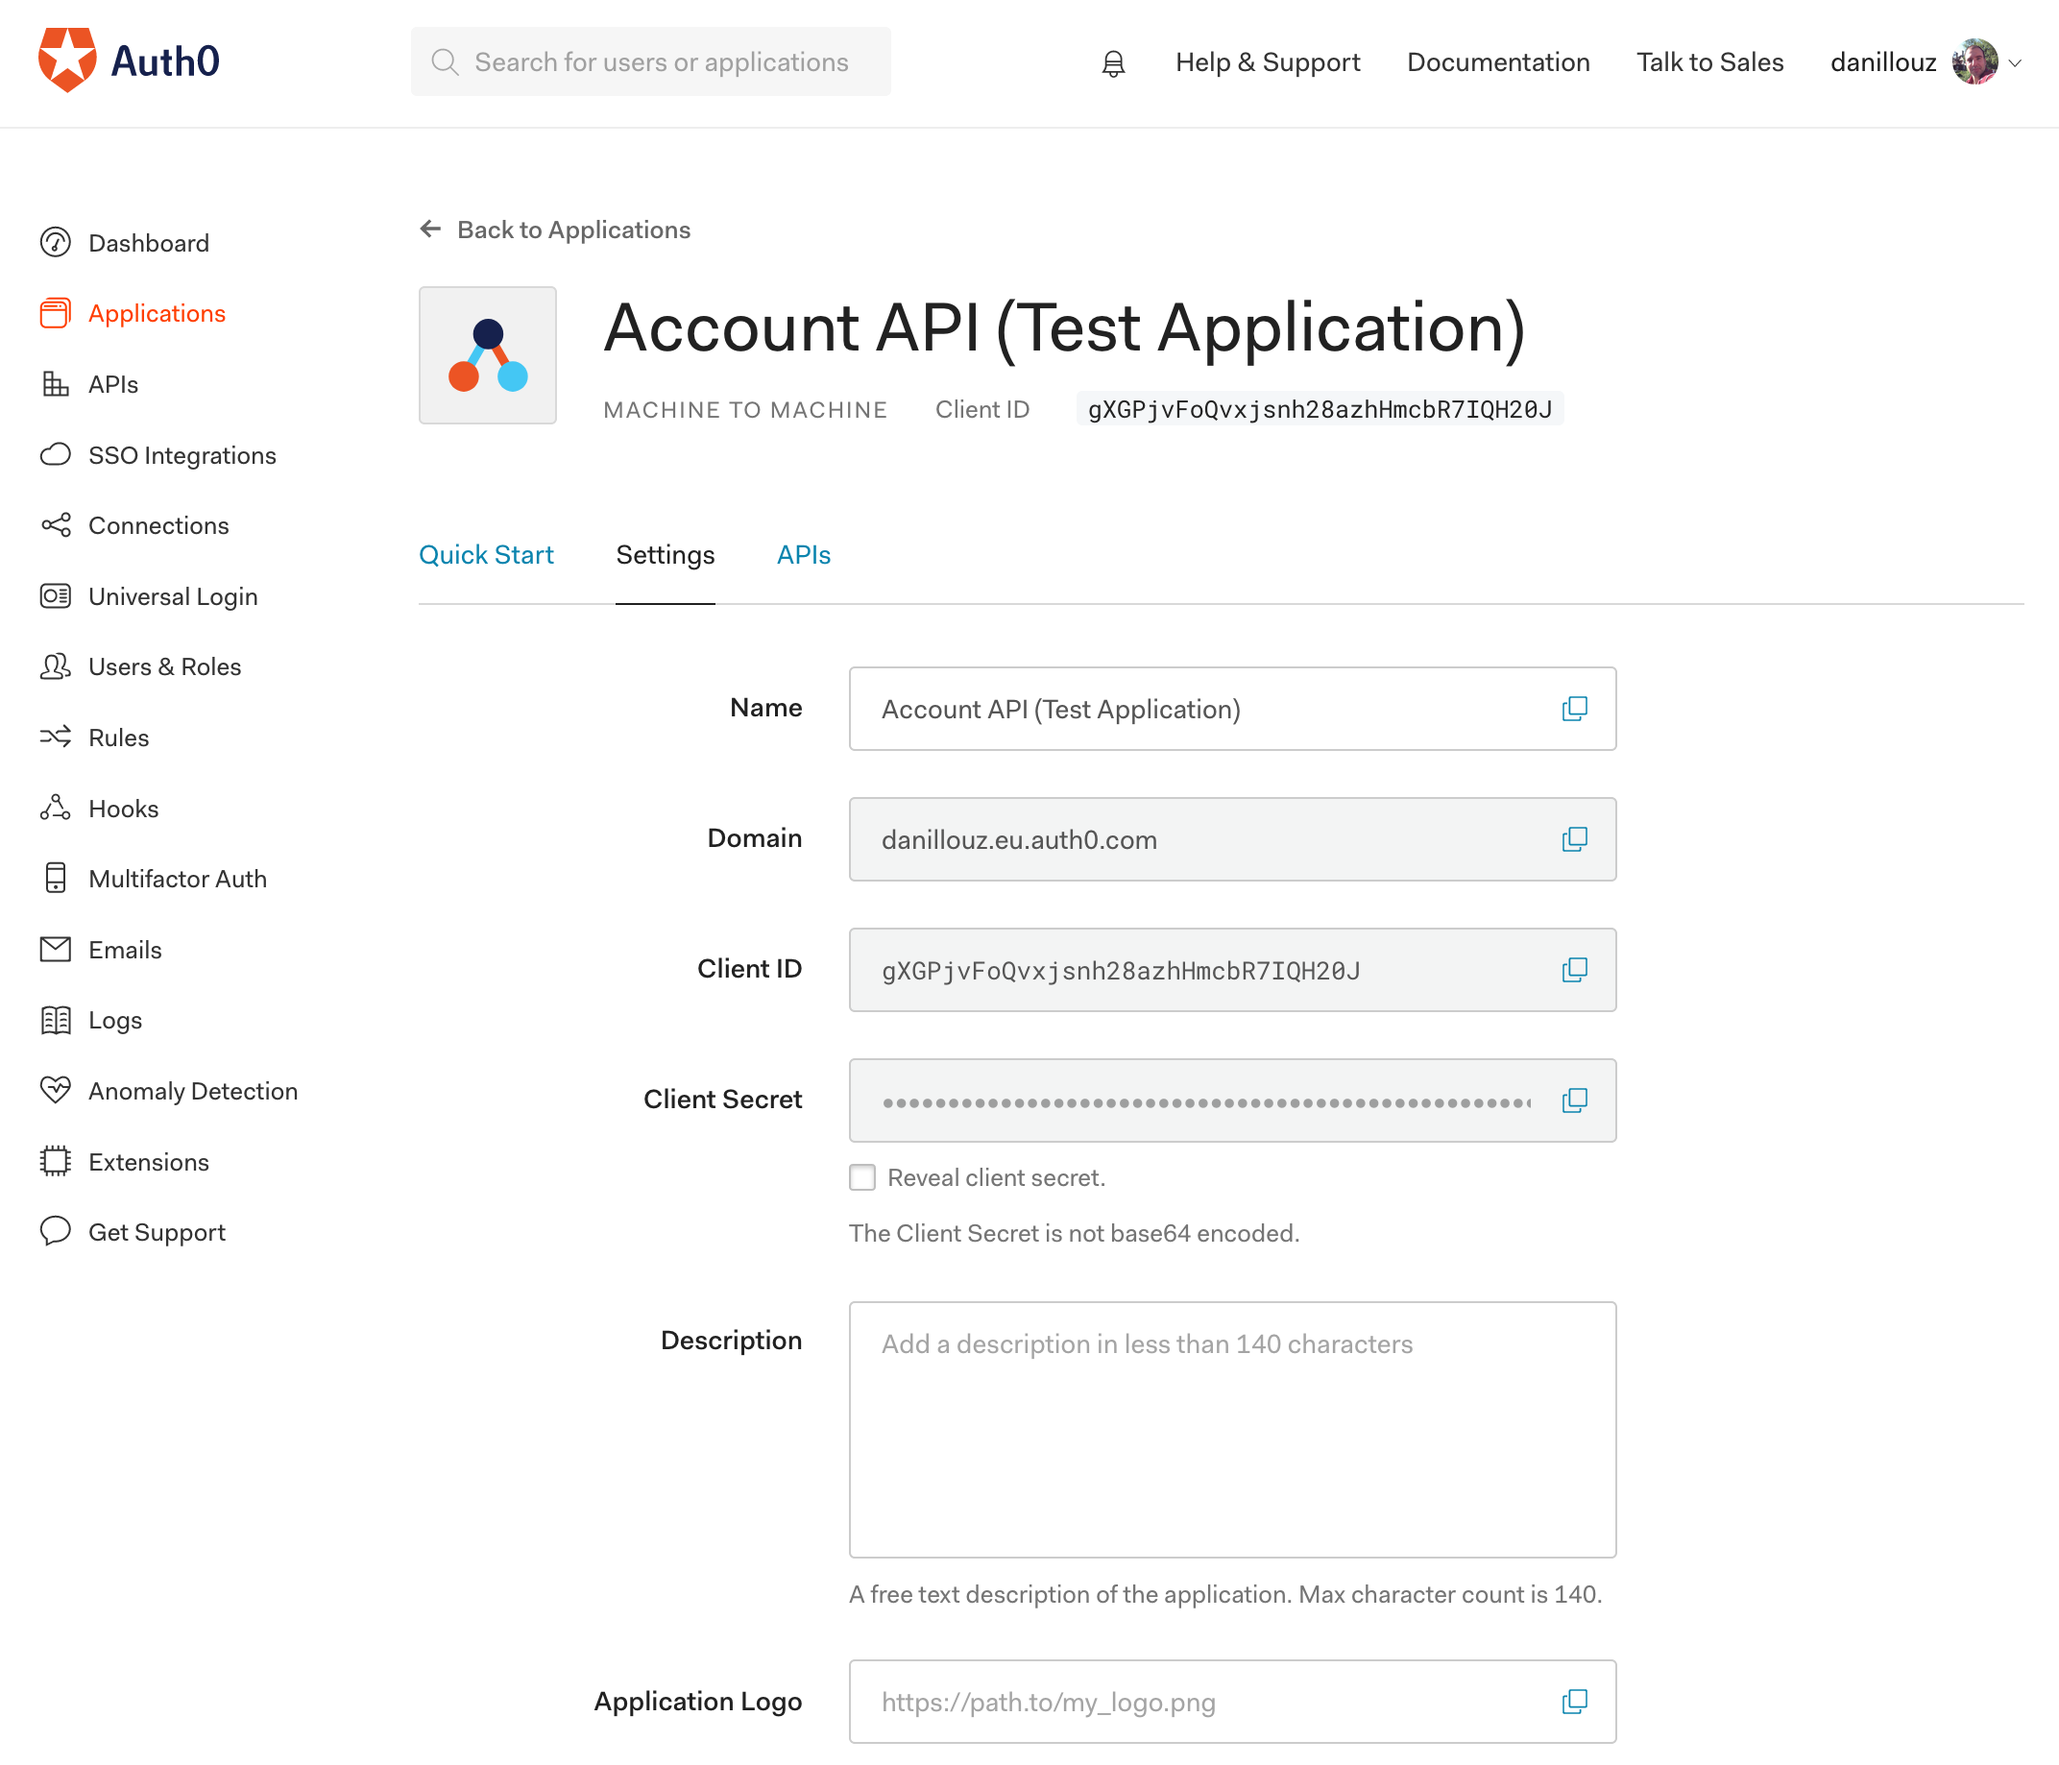
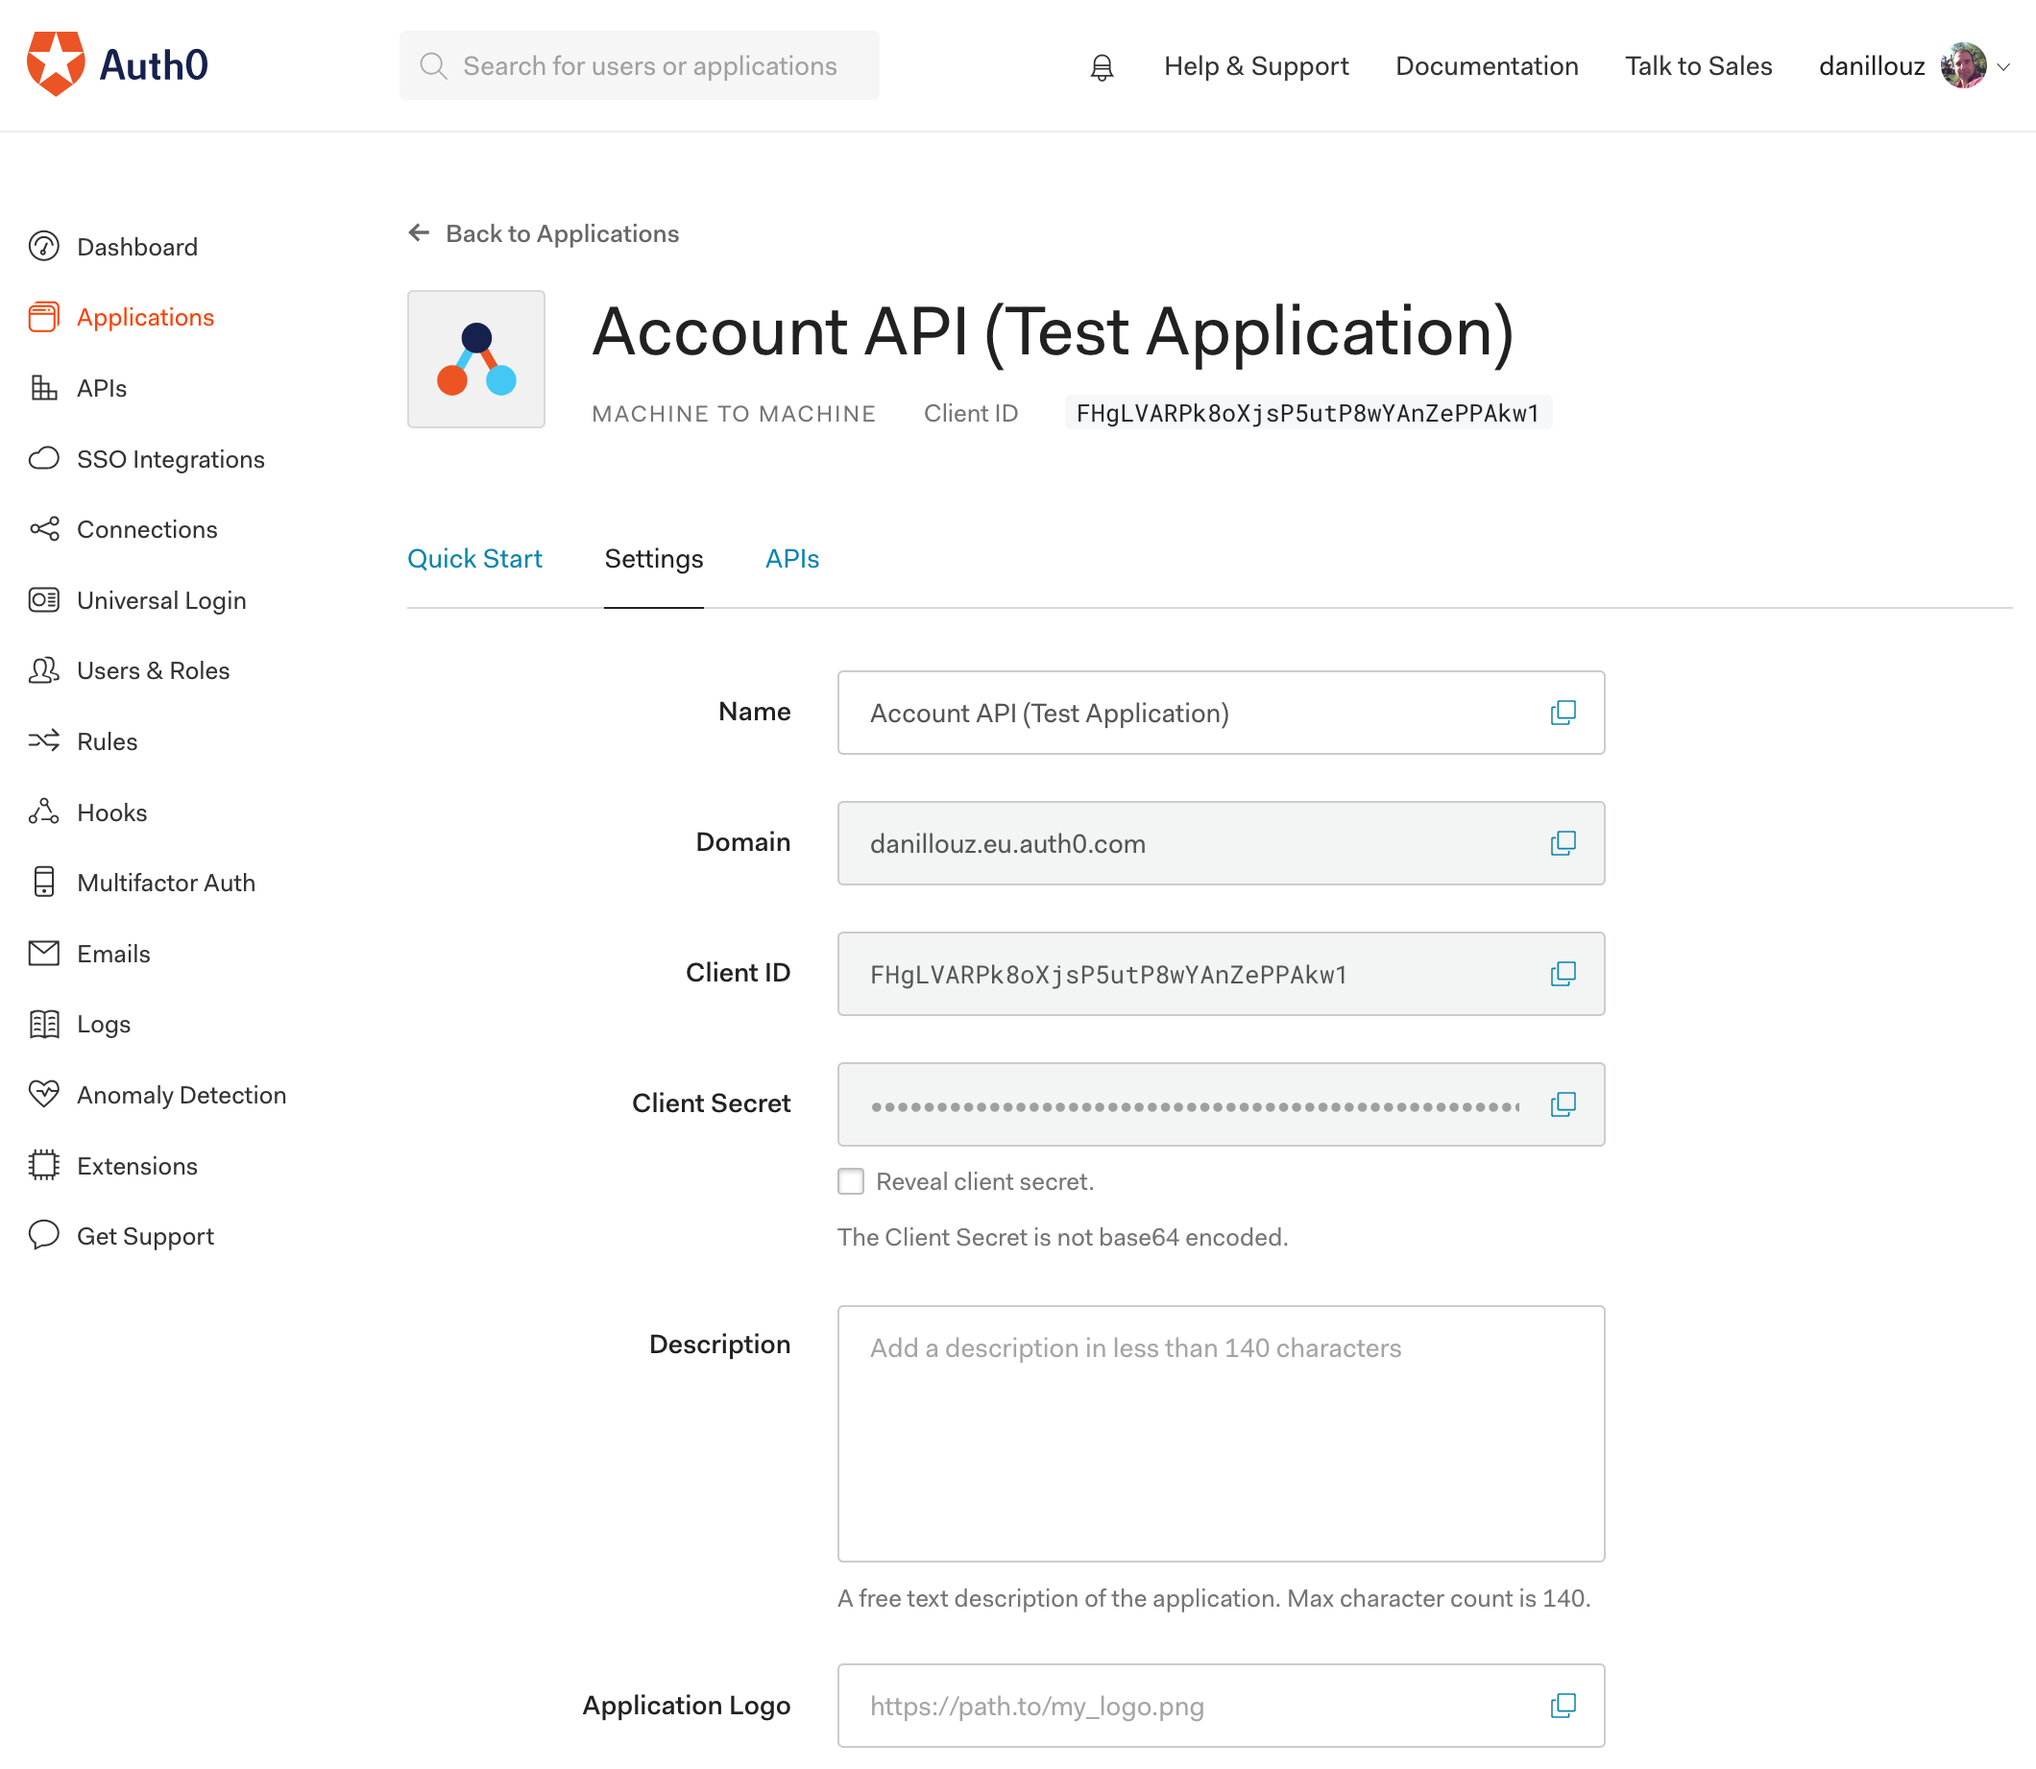
Write how to grant scopes

diff --git a/content/blog/serverless-auth/index.md b/content/blog/serverless-auth/index.md
@@ -750,11 +750,11 @@ When the helper verifies the token, it will return the JWT Payload data as `veri
 ```json
 {
   "iss": "https://danillouz.eu.auth0.com/",
-  "sub": "gXGPjvFoQvxjsnh28azhHmcbR7IQH20J@clients",
+  "sub": "FHgLVARPk8oXjsP5utP8wYAnZePPAkw1@clients",
   "aud": "https://api.danillouz.dev/account",
-  "iat": 1560521845,
-  "exp": 1560608245,
-  "azp": "gXGPjvFoQvxjsnh28azhHmcbR7IQH20J",
+  "iat": 1560762850,
+  "exp": 1560849250,
+  "azp": "FHgLVARPk8oXjsP5utP8wYAnZePPAkw1",
   "gty": "client-credentials"
 }
 ```
@@ -823,23 +823,35 @@ module.exports.verifyBearer = async event => {
 };
 ```
 
-#### Principal ID
+#### Principal identifier
 
 The `authResponse.principalId` property must represent a unique (user) identifier associated with the token sent by the client. Auth0 provides this via the JWT `sub` claim and ours has the value:
 
 ```json
 {
   "iss": "https://danillouz.eu.auth0.com/",
-  "sub": "gXGPjvFoQvxjsnh28azhHmcbR7IQH20J@clients", // highlight-line
+  "sub": "FHgLVARPk8oXjsP5utP8wYAnZePPAkw1@clients", // highlight-line
   "aud": "https://api.danillouz.dev/account",
-  "iat": 1560521845,
-  "exp": 1560608245,
-  "azp": "gXGPjvFoQvxjsnh28azhHmcbR7IQH20J",
-  "gty": "client-credentials" // highlight-line
+  "iat": 1560762850,
+  "exp": 1560849250,
+  "azp": "FHgLVARPk8oXjsP5utP8wYAnZePPAkw1",
+  "gty": "client-credentials"
 }
 ```
 
-Note that if you use an Auth0 test token, the `sub` claim will be postfixed with `@clients`. This is because Auth0 automatically created a "Test Application" for us when we registered the Account API with them. And it's via this test application that we obtain a test token--using the <a href="https://auth0.com/docs/flows/concepts/client-credentials">client credentials grant</a> to be specific, as denoted by the `gty` (grant type) claim.
+Note that if you use an Auth0 test token, the `sub` claim will be postfixed with `@clients`. This is because Auth0 automatically created a "Test Application" for us when we registered the Account API with them. And it's via this test application that we obtain a test token--using the <a href="https://auth0.com/docs/flows/concepts/client-credentials">client credentials grant</a> to be specific, as denoted by the `gty` (grant type) claim:
+
+```json
+{
+  "iss": "https://danillouz.eu.auth0.com/",
+  "sub": "FHgLVARPk8oXjsP5utP8wYAnZePPAkw1@clients",
+  "aud": "https://api.danillouz.dev/account",
+  "iat": 1560762850,
+  "exp": 1560849250,
+  "azp": "FHgLVARPk8oXjsP5utP8wYAnZePPAkw1",
+  "gty": "client-credentials" // highlight-line
+}
+```
 
 In this case the test application represents a "machine" and _not_ a user. But that's okay because the machine has a unique identifier the same way a user would have (by means of a client ID). This means this implementation will also work when using "user centric" auth flows like the <a href="https://auth0.com/docs/flows/concepts/implicit">implicit grant</a>.
 
@@ -847,16 +859,49 @@ You can find the test application in the Auth0 dashboard by navigating to "Appli
 
 <figure>
   <img src="./img/auth0/test-application.png" alt="Image that shows the Auth0 Test Application.">
-  <figcaption>The client ID is <code class="language-text">gXGPjvFoQvxjsnh28azhHmcbR7IQH20J</code> which matches the JWT <code class="language-text">sub</code> claim.</figcaption>
+  <figcaption>The client ID is <code class="language-text">FHgLVARPk8oXjsP5utP8wYAnZePPAkw1</code> which matches the JWT <code class="language-text">sub</code> claim.</figcaption>
 </figure>
 
 #### Method ARN
 
 The ARN of the Lambda handler associated with the called endpoint can be obtained from `event.methodArn`. APIG will use this ARN to invoke said Lambda handler--in our case this will be the Lambda handler that gets the profile data.
 
-#### Scope
+#### Granting a client scopes
 
-As mentioned when [discussing authorization](#a-note-on-authorization), Auth0 can also provide scope a custom JWT claim. But we didn't configure this and that's why it's not part of the `verifiedData`. If it is configured, you can propagate it downstream like this:
+Like mentioned when discussing [scopes](#scopes), Auth0 can provide scopes as authorization information. In order for Auth0 to do this, we first need to "grant" our client the `get:profile` scope from the Auth0 dashboard.
+
+In our case, the client is the "Test Application" Auth0 created for us. But the process is the same for other clients as well (like the "Single Page Web Application" client).
+
+Navigate to the "APIs" tab in the "Test Application" details and click on the "right pointing chevron" (circled in red) next to "Account API":
+
+<figure>
+  <img src="./img/auth0/grant-scope-1.png" alt="Image that shows the Auth0 test application authorization settings.">
+  <figcaption>Select the Account API.</figcaption>
+</figure>
+
+Then check the `get:profile` scope, click "Update" and "Continue":
+
+<figure>
+  <img src="./img/auth0/grant-scope-2.png" alt="Image that shows how to grant the Auth0 test application the get profile scope.">
+  <figcaption>Select <code class="language-text">get:profile</code> scope.</figcaption>
+</figure>
+
+Now the configured scope will be a claim on issued test tokens (JWT):
+
+```json
+{
+  "iss": "https://danillouz.eu.auth0.com/",
+  "sub": "FHgLVARPk8oXjsP5utP8wYAnZePPAkw1@clients",
+  "aud": "https://api.danillouz.dev/account",
+  "iat": 1560762850,
+  "exp": 1560849250,
+  "azp": "FHgLVARPk8oXjsP5utP8wYAnZePPAkw1",
+  "scope": "get:profile", // highlight-line
+  "gty": "client-credentials"
+}
+```
+
+And therfore part of the `verifiedData`, so we can propagate it to downstream Lambda handlers like this:
 
 ```js
 const authResponse = {
